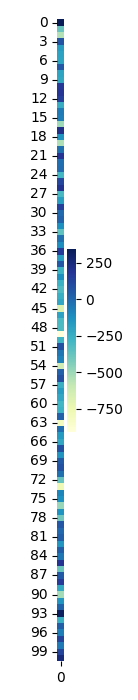
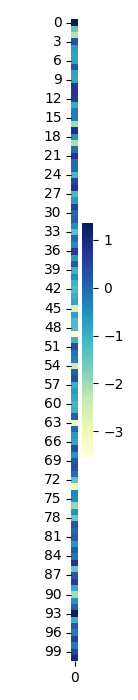
Need to make getting denominator in a totally separate function to rest of layers

Changed region(s): [[0.2029, 0.0, 0.8986, 0.99]]

diff --git a/rib/data_accumulator.py b/rib/data_accumulator.py
@@ -16,6 +16,7 @@ from rib.hook_fns import (
     interaction_edge_pre_forward_hook_fn,
     relu_interaction_forward_hook_fn,
     test_edges_forward_hook_fn,
+    function_size_forward_hook_fn,
 )
 from rib.hook_manager import Hook, HookedModel
 
@@ -349,7 +350,7 @@ def collect_relu_interactions(
                 for hook_name in hooked_model.hooked_data
             }
             preactivations = {
-                hook_name: torch.div(hooked_model.hooked_data[hook_name]["preactivations"], len(data_loader))
+                hook_name: torch.div(hooked_model.hooked_data[hook_name]["preactivations"], len(data_loader.dataset))
                 for hook_name in hooked_model.hooked_data
             }
             for hook_name, mat in preactivations.items():
@@ -360,13 +361,15 @@ def collect_relu_interactions(
             for i in range(len(keys)-1):
                 vectorised_Lambda_dash = torch.diag(Lambda_dashes[i+1])
                 numerator_term_2: Float[Tensor, "d_hidden d_hidden"] = hooked_model.hooked_data[keys[i]]["relu_num"].cpu()
-                shape_list = [hooked_model.hooked_data[hook_name]["relu_num"].shape for hook_name in hooked_model.hooked_data]
-                print(f"shapes list {shape_list}")
+                numerator_shapes_list = [hooked_model.hooked_data[hook_name]["relu_num"].shape for hook_name in hooked_model.hooked_data]
+                denominator_list = [hooked_model.hooked_data[hook_name]["fn_size"] for hook_name in hooked_model.hooked_data]
+                Lambda_dash_shapes_list = [Lambda_dash.shape for Lambda_dash in Lambda_dashes]
+                print(f"numerator shapes list {numerator_shapes_list}")
+                print(f"denominator list {denominator_list}")
+                print(f"L-dash shapes list {Lambda_dash_shapes_list}")
                 d_hidden = vectorised_Lambda_dash.shape[0]
                 # Matrix with columns as vectorised Lambda dash terms
                 numerator_term_1 = repeat(vectorised_Lambda_dash, 'd1 -> d1 d2', d2=d_hidden).cpu()
-                print(f"numerator term 1 {numerator_term_1.shape}")
-                print(f"numerator term 2 {numerator_term_2.shape}")
                 denominator = hooked_model.hooked_data[keys[i+1]]["relu_denom"].cpu()
                 matrix = (numerator_term_1 - numerator_term_2) / denominator
                 relu_similarity_matrices[keys[i]] = matrix
@@ -374,6 +377,18 @@ def collect_relu_interactions(
     hooked_model.clear_hooked_data()
 
     return relu_similarity_matrices
+
+
+def collect_function_sizes(
+    hooked_model: HookedModel,
+    module_names: list[str],
+    data_loader: DataLoader,
+    dtype: torch.dtype,
+    device: str,
+    relu_metric_type: int,
+    hook_names: Optional[str] = None,
+) -> None:
+    pass
 
 
 def collect_test_edges(

diff --git a/experiments/mnist_relu_interactions/run_relu_similarity.py b/experiments/mnist_relu_interactions/run_relu_similarity.py
@@ -128,7 +128,7 @@ def relu_plotting(similarity_matrices: list[Float[Tensor, "d_hidden d_hidden"]],
                 similarity_matrix[similarity_matrix < threshold] = 0
                 # Transform into distance matrix
                 distance_matrix = 1 - similarity_matrix
-            case 1 | 2:
+            case 1 | 2 | 3:
                 similarity_matrix = torch.max(similarity_matrix, similarity_matrix.T) # Make symmetric
                 # similarity_matrix = rescale(similarity_matrix)
                 distance_matrix = similarity_matrix
@@ -136,22 +136,23 @@ def relu_plotting(similarity_matrices: list[Float[Tensor, "d_hidden d_hidden"]],
                 threshold = 15
                 distance_matrix[distance_matrix > threshold] = threshold
 
-        # Deal with zeros on diagonal
-        distance_matrix = distance_matrix.fill_diagonal_(0)
+        if config.relu_metric_type in (0,1,2):
+            # Deal with zeros on diagonal
+            distance_matrix = distance_matrix.fill_diagonal_(0)
 
-        # Create linkage matrix using clustering algorithm
-        linkage_matrix = linkage(squareform(
-            distance_matrix), method='complete')
-        order = leaves_list(linkage_matrix)
-        rearranged_similarity_matrix = similarity_matrix[order, :][:, order]
+            # Create linkage matrix using clustering algorithm
+            linkage_matrix = linkage(squareform(
+                distance_matrix), method='complete')
+            order = leaves_list(linkage_matrix)
+            rearranged_similarity_matrix = similarity_matrix[order, :][:, order]
 
-        # Plot sorted similarity matrix via indices obtained from distance matrix
-        plt.figure(figsize=(10, 8))
-        sns.heatmap(rearranged_similarity_matrix, annot=False,
-                    cmap="YlGnBu", cbar=True, square=True)
-        plt.title("Reordered Similarity Matrix")
-        plt.savefig(
-            out_dir / f"rearr_mat_{i}_type_{config.relu_metric_type}_editweights_{config.edit_weights}.png")
+            # Plot sorted similarity matrix via indices obtained from distance matrix
+            plt.figure(figsize=(10, 8))
+            sns.heatmap(rearranged_similarity_matrix, annot=False,
+                        cmap="YlGnBu", cbar=True, square=True)
+            plt.title("Reordered Similarity Matrix")
+            plt.savefig(
+                out_dir / f"rearr_mat_{i}_type_{config.relu_metric_type}_editweights_{config.edit_weights}.png")
 
 
 def load_local_config(config_path_str: str) -> dict:

diff --git a/rib/hook_fns.py b/rib/hook_fns.py
@@ -360,7 +360,7 @@ def acts_pre_forward_hook_fn(
     """
     assert isinstance(data_key, str), "data_key must be a string."
     inputs = torch.cat([x.detach().clone() for x in inputs], dim=-1)
-    # Store the output activations
+    # Store the input activations
     hooked_data[hook_name] = {data_key: inputs}
 
 
@@ -492,11 +492,7 @@ def relu_interaction_forward_hook_fn(
 
         case 3:
             """Note when running for any given metric, we are in layer l-1 for the lth layer metric!
-            This is so we can hook the correct O^l(x) and p^l(x).
-            This also means we don't divide the numerator calculated from the same hook by the
-            denominator calculated from the same hook. Instead, the denominator index is shifted
-            forwards by 1.
-            """
+            This is so we can hook the correct O^l(x) and p^l(x)."""
             batch_size, d_hidden = operator.shape
             # Denominator is l2 norm of functions - i.e. output of this ReLU layer
             denominator = torch.einsum('bi -> ', outputs)
@@ -509,7 +505,30 @@ def relu_interaction_forward_hook_fn(
             numerator_term_2: Float[Tensor, "d_hidden d_hidden"] = torch.einsum('bij -> ij', cols_g_j_hadamard_p * rows_operators)
 
             _add_to_hooked_matrix(hooked_data, hook_name, "relu_num", numerator_term_2)
-            _add_to_hooked_matrix(hooked_data, hook_name, "relu_denom", denominator)
+
+
+def function_size_forward_hook_fn(
+    module: torch.nn.Module,
+    inputs: Union[
+        tuple[Float[Tensor, "batch d_hidden"]],
+        tuple[Float[Tensor, "batch pos d_hidden"]],
+        tuple[Float[Tensor, "batch pos d_hidden1"],
+              Float[Tensor, "batch pos d_hidden2"]],
+    ],
+    output: Union[
+        Float[Tensor, "batch d_hidden"],
+        Float[Tensor, "batch pos d_hidden"],
+        tuple[Float[Tensor, "batch pos d_hidden1"],
+              Float[Tensor, "batch pos d_hidden2"]],
+    ],
+    hooked_data: dict[str, Any],
+    hook_name: str,
+    data_key: Union[str, list[str]],
+) -> None:
+    assert isinstance(data_key, list) or isinstance(data_key, str), "data_key must be a str or list of strings."
+    outputs = output if isinstance(output, tuple) else (output,)
+    outputs = torch.cat([x for x in outputs], dim=-1) # Concat over hidden dimension
+    _add_to_hooked_matrix(hooked_data, hook_name, "fn_size", torch.einsum('bi -> ', outputs))
 
 
 def test_edges_forward_hook_fn(
